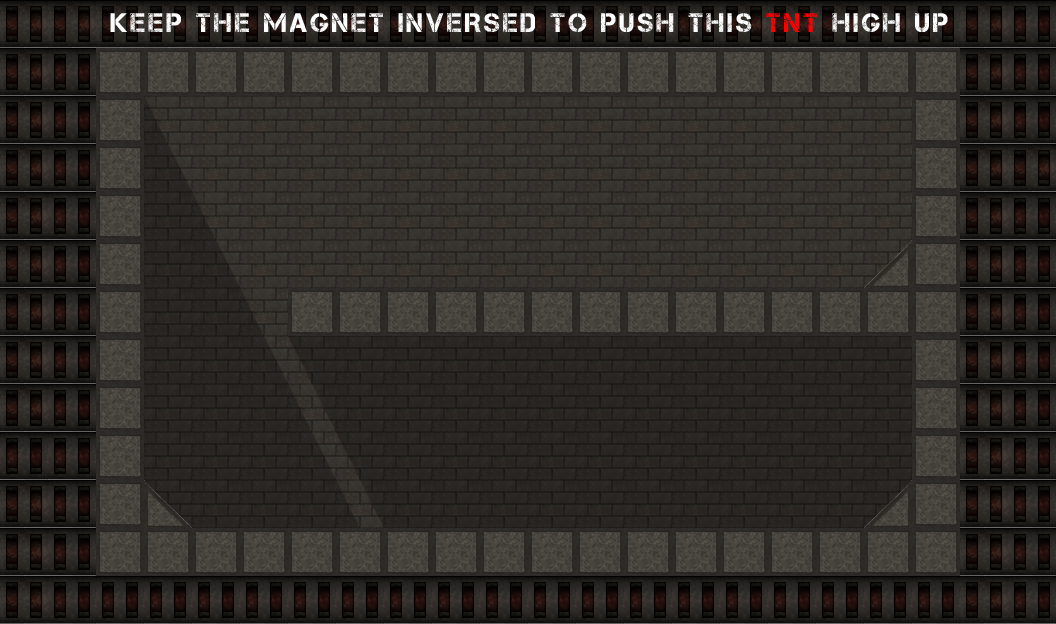
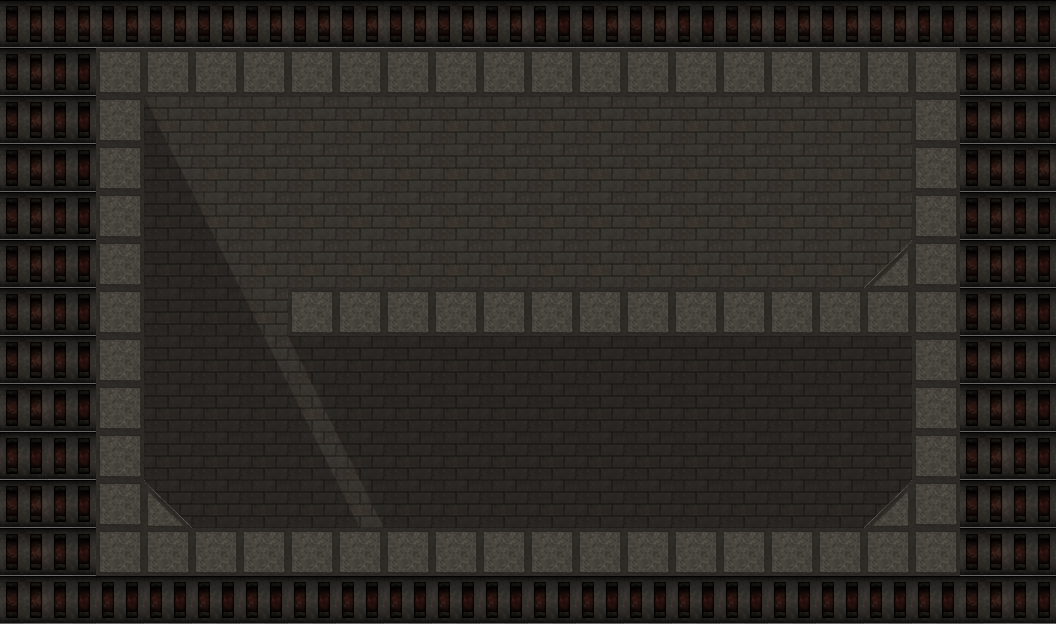
Added messages and fixed rails.

Changed region(s): [[0.0938, 0.0, 0.9062, 0.0609]]

diff --git a/GGJ2011/src/World.cpp b/GGJ2011/src/World.cpp
@@ -778,7 +778,7 @@ void World::SetEditorLayer(int layer) {
 void World::Save() {
 	using boost::property_tree::ptree;
 	ptree pt;
-	std::cout << ":: Saving entities..." << std::endl;
+	std::cout << ":: Saving level" << std::endl;
 
 	BOOST_FOREACH(Entity& entity, mEntities) {
 		entity.Save(&pt);
@@ -799,7 +799,6 @@ void World::Save() {
 
 }
 void World::Load() {
-	std::cout << "::Clearing all entities..." << std::endl;
 	BOOST_FOREACH(Entity& entity, mEntities) {
 		if(entity.UsesPhysics()) {
 			mDynamicsWorld->removeRigidBody(entity.GetBody().get());
@@ -815,7 +814,8 @@ void World::Load() {
 
 	using boost::property_tree::ptree;
 	ptree pt;
-	std::cout << ":: Loading entities and collision polygons..." << std::endl;
+	std::cout << ":: Loading level" << std::endl;
+	GameApp::get_mutable_instance().Msg("Loading level");
 
 	if(boost::filesystem::exists(GetCurrentLevelFile())) {
 		if(!boost::filesystem::is_empty(GetCurrentLevelFile())) {

diff --git a/GGJ2011/src/TextMessage.cpp b/GGJ2011/src/TextMessage.cpp
@@ -1,0 +1,33 @@
+#include "TextMessage.hpp"
+
+#include "GameApp.hpp"
+
+TextMessage::TextMessage(const std::string& text) {
+	mText = text;
+	mLifeTime = 0;
+}
+
+void TextMessage::SetText(const std::string& text) {
+	mText = text;
+}
+
+const std::string& TextMessage::GetText() const {
+	return mText;
+}
+
+void TextMessage::Update(float time_delta) {
+	mLifeTime += time_delta;
+}
+
+void TextMessage::Draw(sf::RenderTarget* target) {
+	float total = 3;
+	if(mLifeTime < total) {
+		sf::Text t(mText);
+		t.SetFont(GameApp::get_mutable_instance().GetResourceManagerPtr()->GetFont("custom"));
+		t.SetCharacterSize(30);
+		t.SetPosition(WIDTH / 2 - t.GetRect().Width / 2,
+					  HEIGHT - t.GetRect().Height - 10 - 20 / total * mLifeTime);
+		t.SetColor(sf::Color(255,255,255,255 - 255 / total * mLifeTime));
+		target->Draw(t);
+	}
+}

diff --git a/GGJ2011/src/GameApp.cpp b/GGJ2011/src/GameApp.cpp
@@ -312,6 +312,11 @@ void GameApp::Run() {
 			mRenderWin->Draw(s2);
 		}
 
+		BOOST_FOREACH(TextMessage& msg, mMessages) {
+			msg.Update(time_delta);
+			msg.Draw(mRenderWin.get());
+		}
+
 		mCursor.SetPosition(mRenderWin->GetInput().GetMouseX(),mRenderWin->GetInput().GetMouseY());
 		mRenderWin->Draw(mCursor);
 
@@ -341,6 +346,10 @@ void GameApp::Quit() {
 void GameApp::LoadWorld(const boost::filesystem::path& data_path) {
 	mWorld.Initialize(data_path);
 	mWorld.Load();
+}
+
+void GameApp::Msg(const std::string& msg) {
+	mMessages.push_back(new TextMessage(msg));
 }
 
 void GameApp::SetAppMode(AppMode mode) {

diff --git a/GGJ2011/src/GameApp.hpp b/GGJ2011/src/GameApp.hpp
@@ -14,7 +14,7 @@
 #include "ResourceManager.hpp"
 #include "Entity.hpp"
 #include "World.hpp"
-
+#include "TextMessage.hpp"
 #include "AnimatedSprite.hpp"
 
 enum AppMode {
@@ -33,6 +33,8 @@ public:
 	void Quit();
 
 	void LoadWorld(const boost::filesystem::path& data_path);
+
+	void Msg(const std::string& msg);
 
 	void SetAppMode(AppMode mode);
 	bool IsEditorMode() const;
@@ -79,6 +81,8 @@ private:
 
     bool mCreditsActive;
     float mTimeSinceCreditsActive;
+
+	boost::ptr_vector<TextMessage> mMessages;
 };
 
 #endif

diff --git a/GGJ2011/src/TextMessage.hpp b/GGJ2011/src/TextMessage.hpp
@@ -1,0 +1,20 @@
+#ifndef TEXTMESSAGE_HPP
+#define TEXTMESSAGE_HPP
+
+#include <SFML/Graphics.hpp>
+
+class TextMessage {
+public:
+	TextMessage(const std::string& text);
+
+	void SetText(const std::string& text);
+	const std::string& GetText() const;
+
+	void Update(float time_delta);
+	void Draw(sf::RenderTarget* target);
+private:
+	std::string mText;
+	float mLifeTime;
+};
+
+#endif // TEXTMESSAGE_HPP

diff --git a/GGJ2011/src/Rail.cpp b/GGJ2011/src/Rail.cpp
@@ -29,6 +29,7 @@ void Rail::Initialize(World& world) {
 		InitializePhysics();
 		world.GetDynamicsWorld()->addConstraint(mConstraint.get());
 		world.GetDynamicsWorld()->addRigidBody(mBody.get(), COL_MOVER, COL_BOX);
+		mBody->setGravity(btVector3(0,0,0));
 		mMounted = true;
 	}
 }
